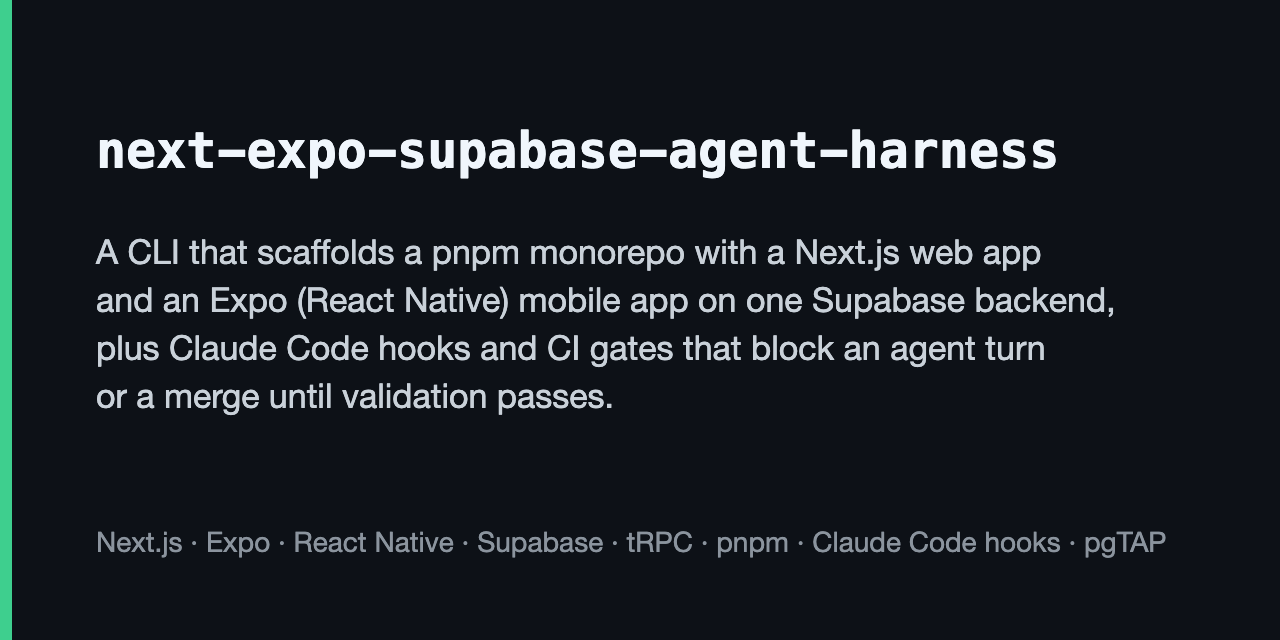
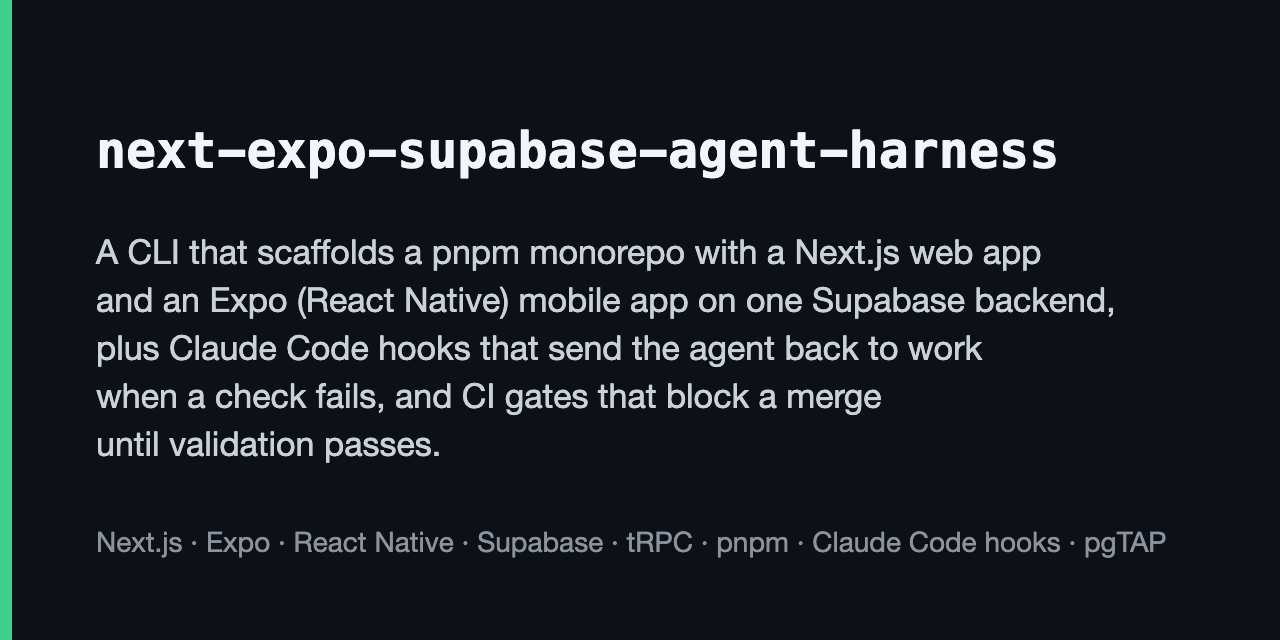
docs: the hooks send the agent back to work when a check fails
The README, package.json's description, the documentation site and the
social preview image said Claude Code hooks and CI gates "block an agent
turn or a merge until validation passes". Claude Code ends a turn anyway
after 8 Stop-hook blocks in a row with no tool call between them, when
the hook reaches its timeout, and when the hook exits 2 with nothing on
stdout and a stderr that says a file is missing.

Each now reads "Claude Code hooks that send the agent back to work when
a check fails, and CI gates that block a merge until validation passes".
The README's other mentions, CITATION.cff and docs/architecture.md
follow. The doctrine's Stop hook section names the three cases instead
of calling the cap the one documented way, and the 2.0.4 runbook says
so. social-preview.png is rendered again with the Chrome command in the
SVG's comment. template/shas/2.0.4.json gains the two docs' new bytes.

.claude-plugin/marketplace.json names Cogvera Labs as its owner, calls
torvalds-reviewer a code-quality reviewer, and lists every reviewer and
skill.

Changed region(s): [[0.0625, 0.5938, 0.6875, 0.7188], [0.375, 0.5312, 0.8125, 0.5625]]

diff --git a/README.md b/README.md
@@ -5,8 +5,9 @@
 [![npm version](https://img.shields.io/npm/v/next-expo-supabase-agent-harness)](https://www.npmjs.com/package/next-expo-supabase-agent-harness)
 
 A CLI that scaffolds a pnpm monorepo with a Next.js 16 web app and an Expo 57
-(React Native) mobile app on one Supabase backend, plus Claude Code hooks and CI
-gates that block an agent turn or a merge until validation passes.
+(React Native) mobile app on one Supabase backend, plus Claude Code hooks that
+send the agent back to work when a check fails, and CI gates that block a merge
+until validation passes.
 
 ![A terminal recording: init writes a project, the Bash guard denies a force-push, the secrets gate goes red on a service-role key in a tracked file and green once it is removed](docs/media/harness-demo.gif)
 
@@ -84,8 +85,8 @@ commit hooks, `pnpm validate`, and CI. Outside that shape, some layers still app
   `pnpm-workspace.yaml`, is refused.
 - **An agent that is not Claude Code.** The commit hooks, `pnpm validate` and CI apply as
   they do for a person. The `.claude/` hooks never run, so nothing denies a command before
-  it runs or keeps a turn from ending on a red tree: a violation is caught at the commit
-  or at the pull request instead.
+  it runs or sends the agent back to work when a check fails: a violation is caught at the
+  commit or at the pull request instead.
 
 ## Requirements
 
@@ -125,10 +126,11 @@ supabase-js 2, tRPC 11, zod 4.
   call against a data table of 151 guard-rule ids before the agent's tool runs.
   Nine hooks are wired: seven guards, a launcher that fails closed if a hook
   cannot load, and a session-start brief.
-- **Stop hook.** The agent cannot end a turn until `pnpm validate`, the RLS
-  isolation tests against a real Postgres, both unit suites with coverage,
-  per-file diff coverage, duplication, i18n, test quality, the mobile perf
-  closure and the reviewer verdicts all pass.
+- **Stop hook.** When the agent tries to end a turn, the hook runs
+  `pnpm validate`, the RLS isolation tests against a real Postgres, both unit
+  suites with coverage, per-file diff coverage, duplication, i18n, test
+  quality, the mobile perf closure and the reviewer verdicts, and sends the
+  agent back to work when one fails.
 - **`pnpm validate`.** One chain of 37 gates, ordered cheap to expensive, driven
   by `tools/harness.config.mjs`. Each gate is documented with a proof that it
   can fail in the [gates catalog](template/base/docs/harness/gates-catalog.md).
@@ -170,8 +172,8 @@ In this harness:
 - Authorization is Postgres row-level security keyed on `auth.uid()`. Both apps
   meet the same policies, and pgTAP and supabase-js suites test them against a
   real database.
-- Claude Code hooks and CI gates block an agent turn or a merge until
-  validation passes.
+- Claude Code hooks send the agent back to work when a check fails, and CI
+  gates block a merge until validation passes.
 - `update` applies a later harness release to a project that already exists.
 - The two apps share the API, the contracts and the design tokens, not their
   screens.

diff --git a/template/base/docs/harness/README.md b/template/base/docs/harness/README.md
@@ -106,7 +106,7 @@ passes.
 
 ### stop-validate-gate (the unbreakable core)
 
-A turn **cannot end** while the gate is red. Details that matter: it imports
+While the gate is red, the hook **sends the agent back to work**. Details that matter: it imports
 `STOP_HOOK_STEPS` from the config UNIONED with the frozen `tools/stop.floor.json`, so
 projects may APPEND a step and may never subtract one (the config is manifest mode
 `config`, which gate-integrity's owned-file loop skips — so until 0.3.0 nothing hashed the
@@ -133,9 +133,13 @@ a red gate into a crashed one.
 **The block cap leaves a mark (0.6.0).** `CLAUDE_CODE_STOP_HOOK_BLOCK_CAP` in
 `.claude/settings.json` is the safety valve so a genuinely stuck session terminates: after 8
 CONSECUTIVE blocks Claude Code ends the turn anyway. The valve is right and it stays — a hook
-that can block forever is a bricked machine. But it is also the ONE documented way the
-headline claim ("a turn cannot end on a red build") is false, and through 0.5.0 a turn that
-ran out of blocks left exactly the trace a green turn leaves: none. So every outcome now
+that can block forever is a bricked machine. It is not the only documented way a turn ends
+without a green gate: Claude Code also ends it when the hook reaches its `timeout` in
+`.claude/settings.json`, and it treats an exit 2 with nothing on stdout and a stderr that says
+a file is missing, such as `No such file or directory`, as a non-blocking error. This hook's
+red path prints nothing on stdout, so a failing step whose output says a file is missing may
+let the turn end at once. Through 0.5.0 a turn that ran out of blocks left exactly the trace a
+green turn leaves: none. So every outcome now
 appends to `.harness/turn-outcomes.jsonl`; the last block a turn is allowed says
 `LAST CHANCE` while the transcript can still act on it; and the **next** turn reports a
 predecessor that ended at the cap **even when the tree is green again by then** — which is

diff --git a/CHANGELOG.md b/CHANGELOG.md
@@ -259,6 +259,21 @@ this comment. -->
   numbers is the maintainer's decision, for later. The runner is owned and reaches an install
   with `update`. The screen and the catalog are seeded, so an install's own screen shows the
   values only once it renders them, and until then the runner prints that it found none.
+- **The headline says what the hooks do: send the agent back to work when a check fails.**
+  The README, `package.json`'s description, the documentation site and the social preview
+  image said Claude Code hooks and CI gates "block an agent turn or a merge until validation
+  passes". Claude Code ends a turn anyway after 8 Stop-hook blocks in a row with no tool call
+  between them, when the hook reaches its timeout, and when the hook exits 2 with nothing on
+  stdout and a stderr that says a file is missing. Each now reads "Claude Code hooks that send
+  the agent back to work when a check fails, and CI gates that block a merge until validation
+  passes", and the README's other mentions, `CITATION.cff` and `docs/architecture.md` follow.
+  The doctrine's Stop hook section names all three cases, where it called the cap the one way
+  a turn could end red. `docs/media/social-preview.png` is rendered again from its SVG with
+  the command in its comment; the repository's social preview is uploaded by hand.
+  `.claude-plugin/marketplace.json` names Cogvera Labs as its owner, and its plugin
+  description lists every reviewer and skill in plain words. The doctrine is owned and
+  reaches an install with `update`, and this release's runbook says so; the rest is factory
+  only.
 
 ## [2.0.3] — 2026-10-17
 

diff --git a/template/base/docs/runbooks/harness-upgrade.md b/template/base/docs/runbooks/harness-upgrade.md
@@ -4539,6 +4539,15 @@ them, run `update --refresh-seeded` on `apps/mobile/app/perf-harness.tsx` and
 changed yours, and bring in the pass branch and the key. Take both or neither: the `i18n` step
 reds a catalog key that nothing renders.
 
+### The doctrine says the Stop hook sends the agent back to work
+
+Through 2.0.3, `docs/harness/README.md` said a turn cannot end while the gate is red and
+called the block cap the one documented exception. It now says the Stop hook sends the agent
+back to work while the gate is red, and names the two other cases in which Claude Code ends
+the turn anyway: the hook reaching its `timeout`, and an exit 2 with nothing on stdout and a
+stderr that says a file is missing. No hook, gate or setting changes. `update` plants the
+doctrine (owned), and nothing is left to you.
+
 ## RECOVERY — when an `update` is interrupted or fails
 
 Every real `update` (0.9.0+) records the pre-update state of every path it

diff --git a/docs-site/src/content/docs/index.md b/docs-site/src/content/docs/index.md
@@ -6,7 +6,7 @@ head:
   - tag: title
     content: next-expo-supabase-agent-harness documentation
 hero:
-  tagline: A CLI that scaffolds a pnpm monorepo with a Next.js web app and an Expo (React Native) mobile app on one Supabase backend, plus Claude Code hooks and CI gates that block an agent turn or a merge until validation passes.
+  tagline: A CLI that scaffolds a pnpm monorepo with a Next.js web app and an Expo (React Native) mobile app on one Supabase backend, plus Claude Code hooks that send the agent back to work when a check fails, and CI gates that block a merge until validation passes.
   actions:
     - text: Read the doctrine
       link: /next-expo-supabase-agent-harness/harness/

diff --git a/docs/architecture.md b/docs/architecture.md
@@ -81,7 +81,7 @@ All three read the same definition of the gate chain,
 2. **Before a turn ends.** The `Stop` hook runs the validate chain and the
    Stop-only steps (RLS isolation, both unit suites with coverage, diff
    coverage, duplication, i18n, test quality, the mobile perf closure, reviewer
-   verdicts) and refuses to end the turn until they pass.
+   verdicts) and sends the agent back to work when one fails.
 3. **Before a merge.** The consumer's workflows run the same chain with
    `--min-floor`, against `tools/validate.floor.json`, a frozen copy of the
    step list. A project can add steps to its chain. It cannot remove one
